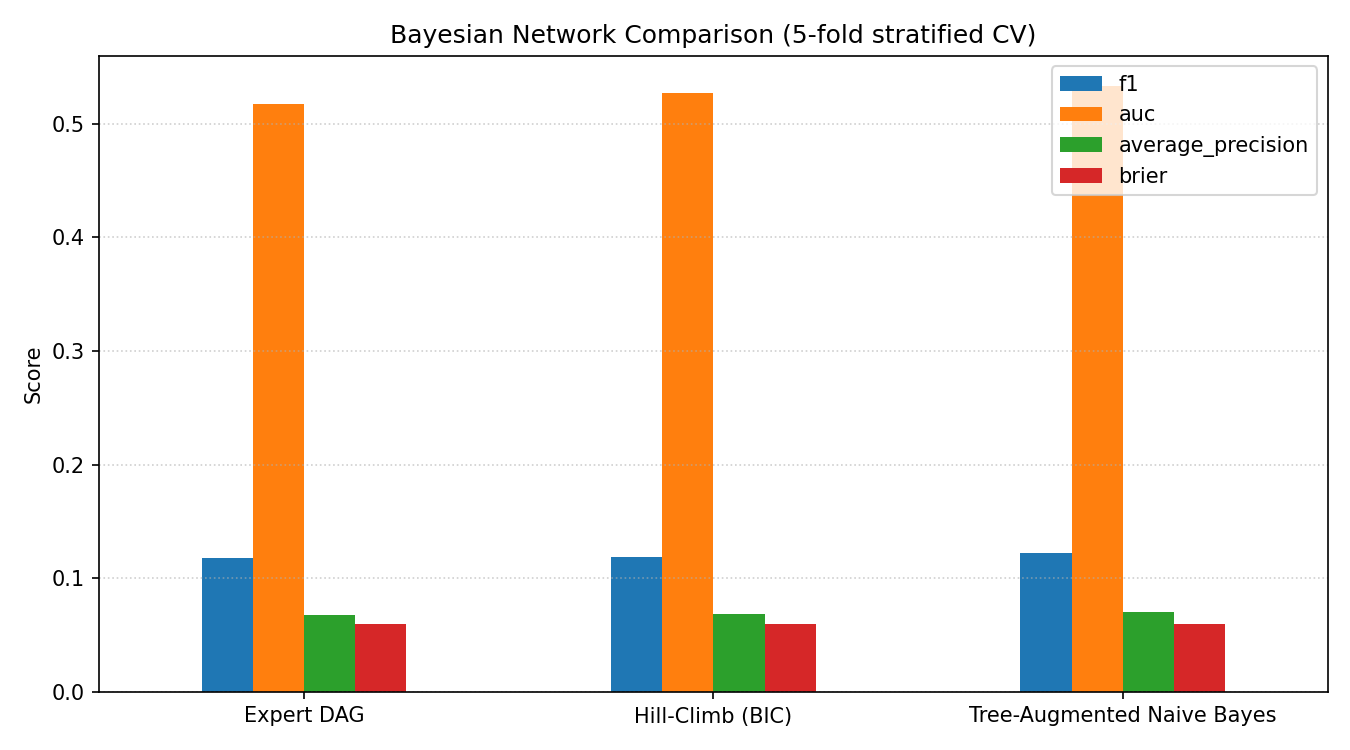
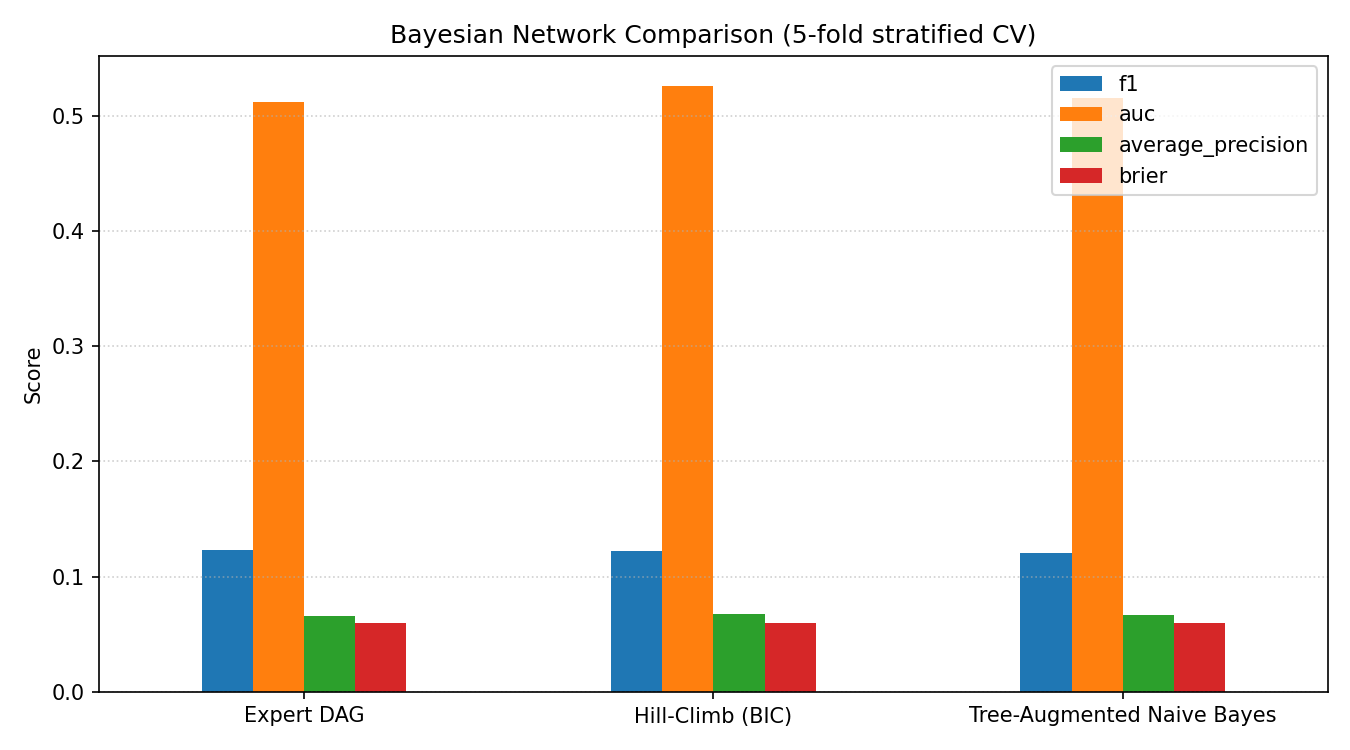
streamlit connection hotfix

diff --git a/src/evaluation/compare.py b/src/evaluation/compare.py
@@ -29,7 +29,7 @@ matplotlib.use("Agg")  # non-interactive backend; we save PNGs not show windows
 import matplotlib.pyplot as plt
 import numpy as np
 import pandas as pd
-from sklearn.model_selection import StratifiedKFold
+from sklearn.model_selection import StratifiedKFold, train_test_split
 
 from src.data.load import load_clean
 from src.data.preprocess import TARGET
@@ -93,14 +93,10 @@ def run_comparison(
     if sample_size is not None and sample_size < len(df):
         # Stratify the subsample on the target so each fold sees realistic
         # claim prevalence even when ``sample_size`` is small.
-        df = (
-            df.groupby(TARGET, group_keys=False)
-            .apply(lambda g: g.sample(
-                n=int(round(len(g) / len(df) * sample_size)),
-                random_state=RANDOM_STATE,
-            ))
-            .reset_index(drop=True)
+        _, df = train_test_split(
+            df, test_size=sample_size, stratify=df[TARGET], random_state=RANDOM_STATE
         )
+        df = df.reset_index(drop=True)
 
     y = df[TARGET].to_numpy()
     skf = StratifiedKFold(n_splits=n_splits, shuffle=True, random_state=RANDOM_STATE)

diff --git a/src/models/base.py b/src/models/base.py
@@ -79,12 +79,10 @@ class BNModel(ABC):
             if col not in self.network.nodes():
                 self.network.add_node(col)
 
-        self.network.fit(
-            df,
-            estimator=BayesianEstimator,
-            prior_type="BDeu",
-            equivalent_sample_size=10,
+        cpds = BayesianEstimator(self.network, df).get_parameters(
+            prior_type="BDeu", equivalent_sample_size=10
         )
+        self.network.add_cpds(*cpds)
         self._inference = VariableElimination(self.network)
         self._feature_columns = [c for c in df.columns if c != TARGET]
         return self